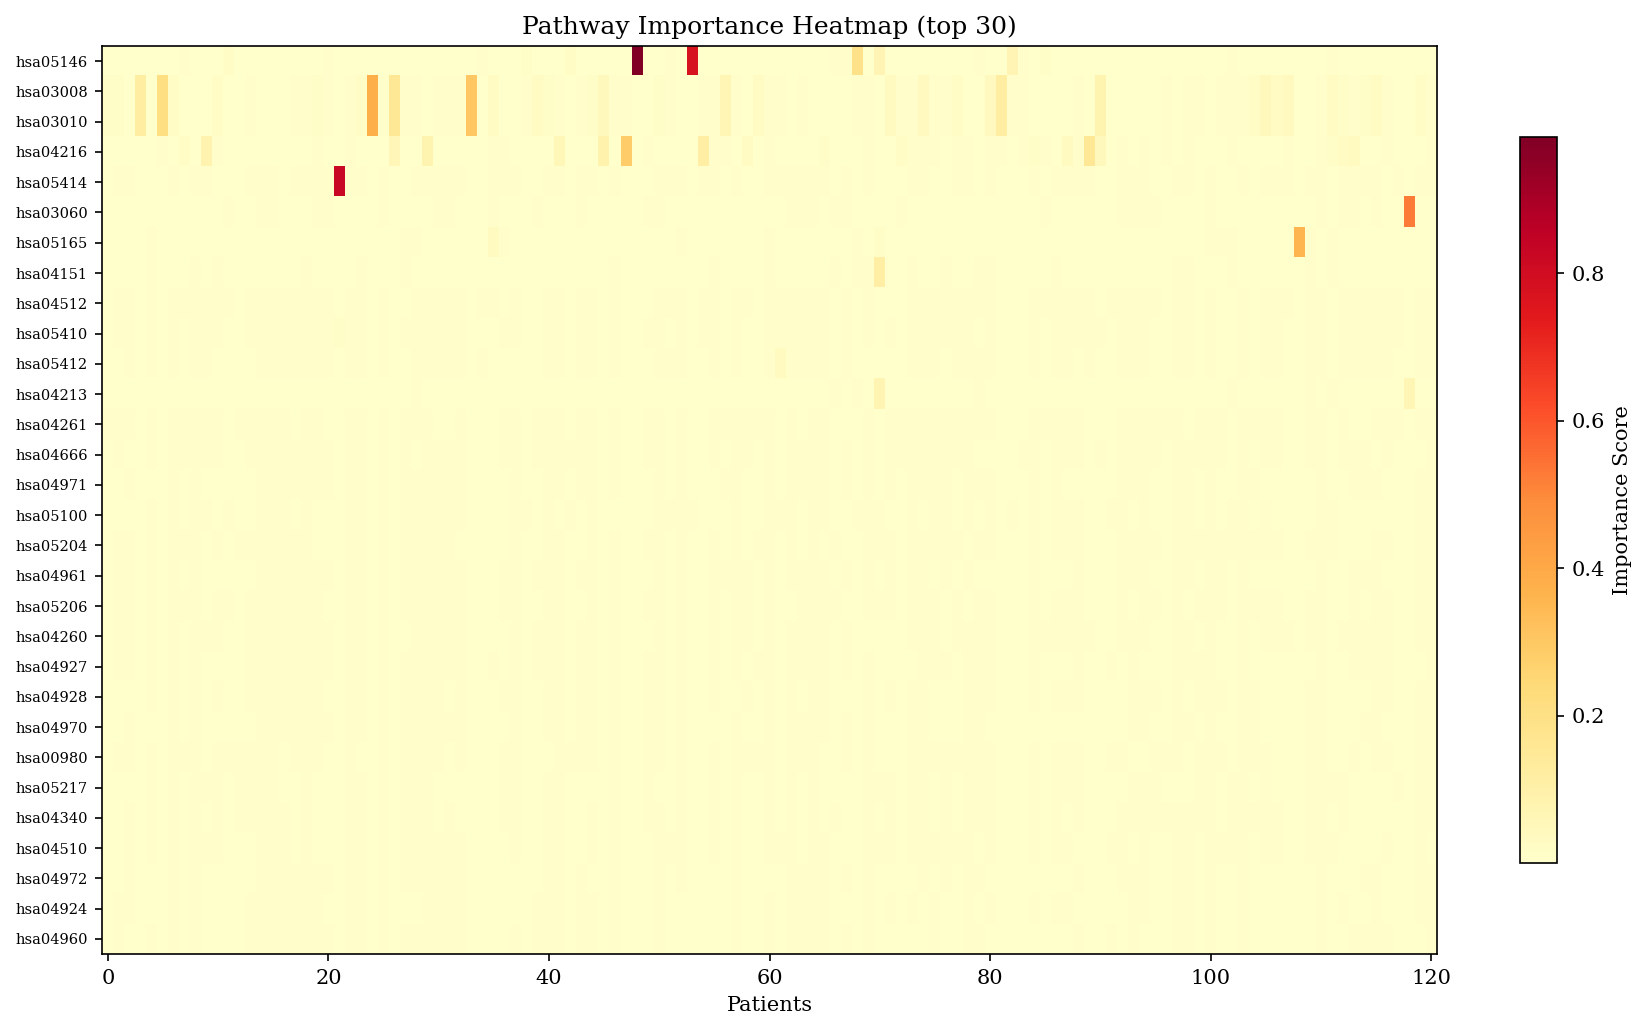
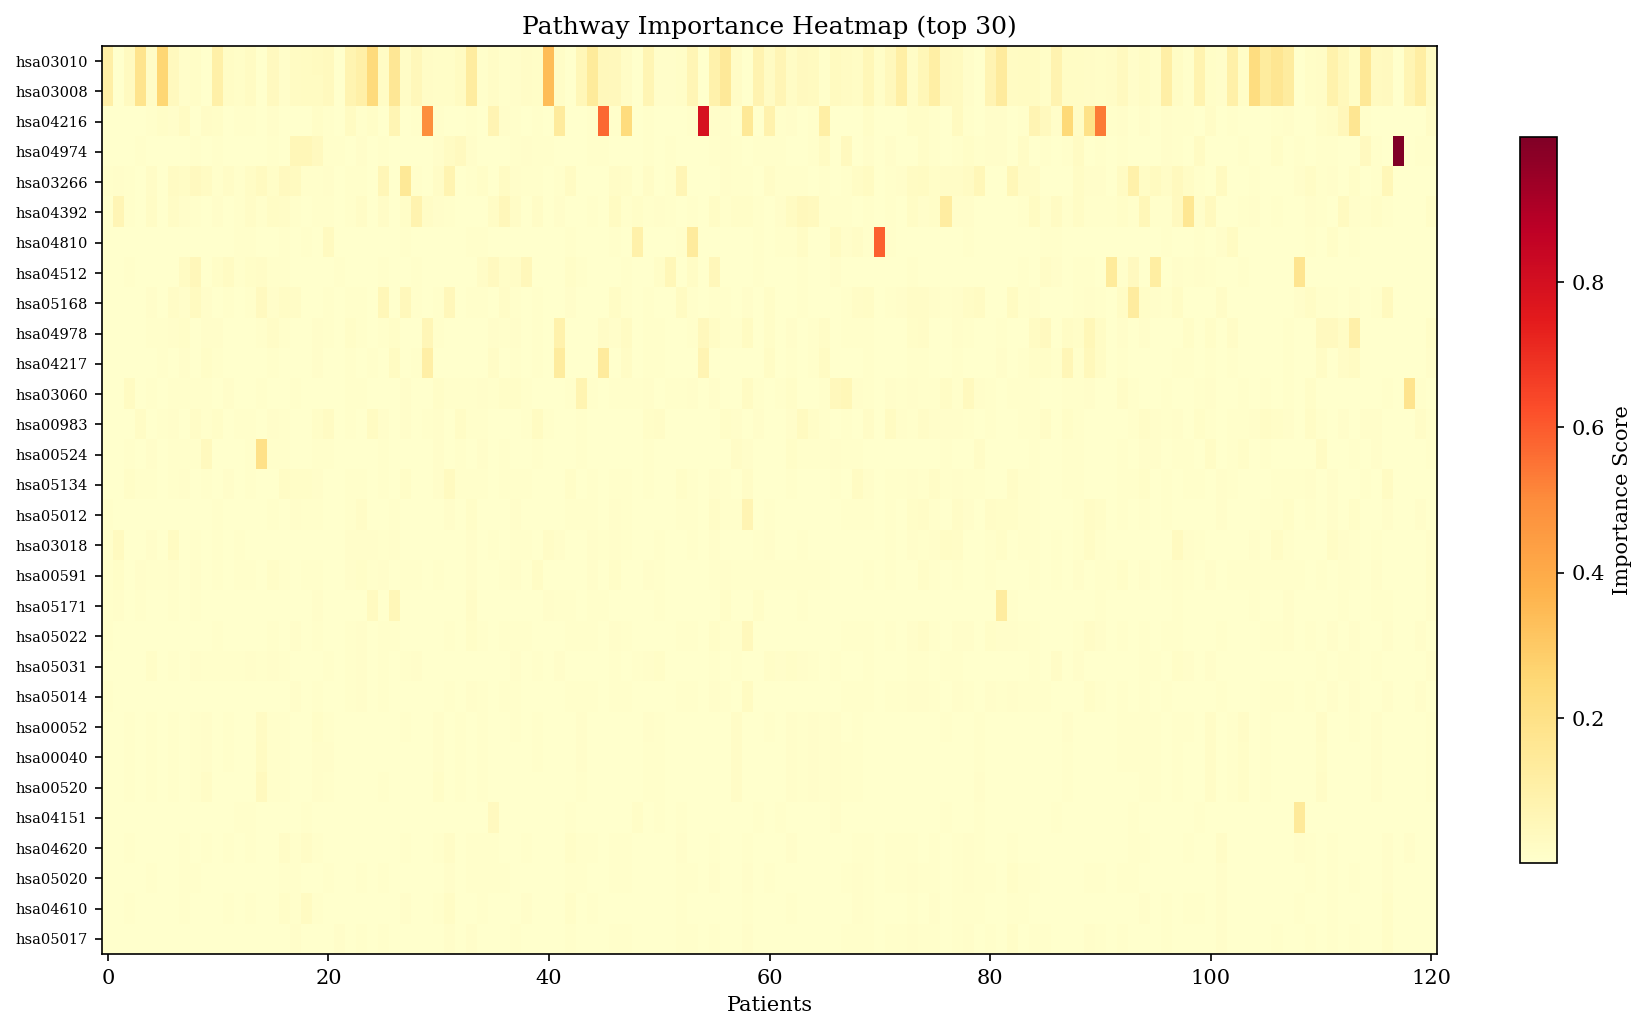
fix: align CLI patience default and move import to module level
- CLI --patience default: 50 → 400 (match TrainConfig dataclass)
- Move `import random` from inline to top-level imports
- Regenerate plots with corrected model weights

diff --git a/run.py b/run.py
@@ -370,7 +370,7 @@ def main() -> None:
     train_p.add_argument("--epochs", type=int, default=400)
     train_p.add_argument("--batch-size", type=int, default=20)
     train_p.add_argument("--lr", type=float, default=1e-4)
-    train_p.add_argument("--patience", type=int, default=50)
+    train_p.add_argument("--patience", type=int, default=400)
 
     # --- predict ---
     pred_p = subparsers.add_parser("predict", help="Predict ICI response")

diff --git a/src/irnet/train.py b/src/irnet/train.py
@@ -40,6 +40,7 @@ This is more verbose than TF but gives full control over the training process.
 
 from __future__ import annotations
 
+import random
 from dataclasses import dataclass, field
 from pathlib import Path
 
@@ -207,7 +208,6 @@ def train(
     if config is None:
         config = TrainConfig()
 
-    import random
     random.seed(config.random_seed)
     np.random.seed(config.random_seed)
     torch.manual_seed(config.random_seed)
